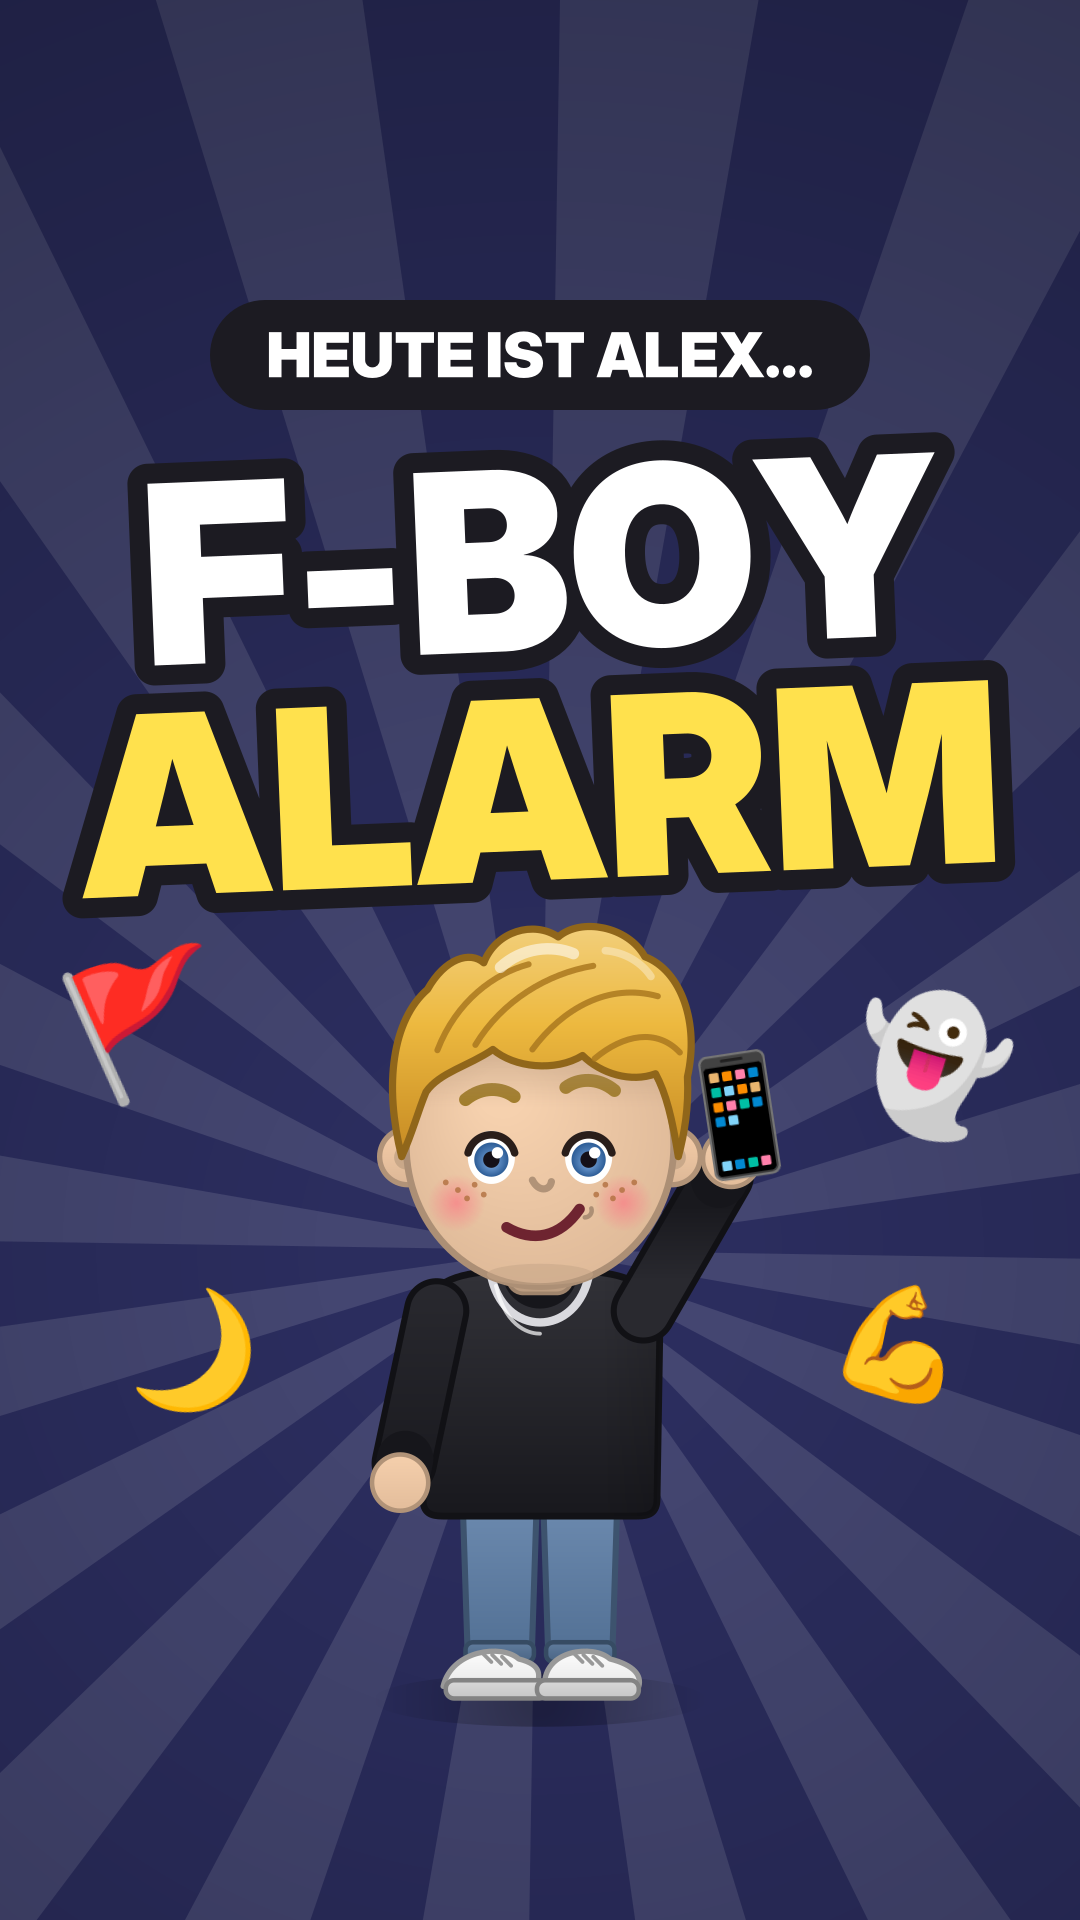
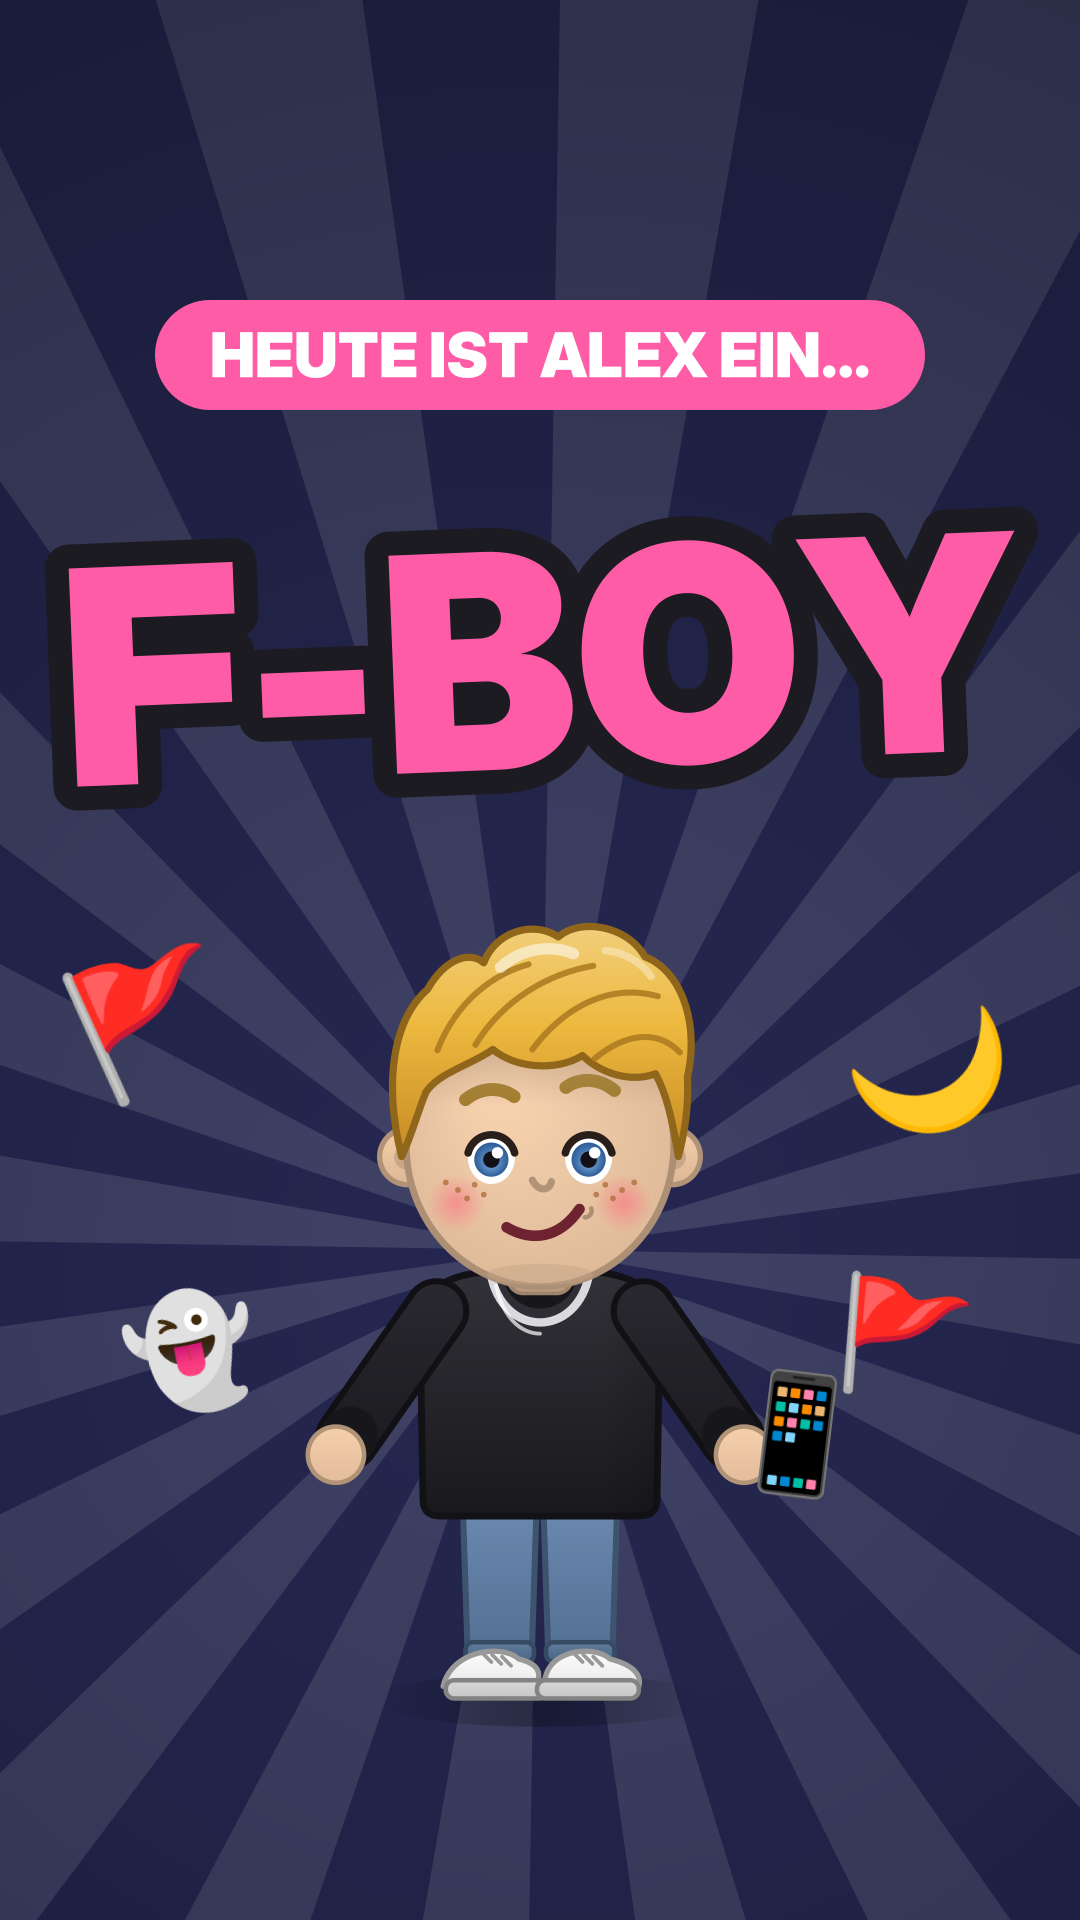
Thumbnail-Tool: Kopfzeile, Einzelwort und Themenfarben pro Folge; F-Boy-Cover in Nacht/Neon-Pink
Claude-Session: https://claude.ai/code/session_01McNdgbYmUv6wbiJiuvHZgk

diff --git a/tools/thumbnail.py b/tools/thumbnail.py
@@ -37,11 +37,16 @@ def outlined(s, y, size, fill_col, rot=-0.04):
     c.restore()
 
 # Kopfzeile (unterhalb der TikTok-Leiste, im 3:4-Ausschnitt)
-rrect(c, W / 2 - 330, 300, 660, 110, 55); fill(c, INK)
-text(c, "HEUTE IST ALEX…", W / 2, 355, 62, "#FFFFFF", FONT_HEAD)
-# Rolle riesig
-outlined(l1, 560, 250, "#FFFFFF")
-outlined(l2, 790, 250, "#FFE14D")
+head = TH.get("head", "HEUTE IST ALEX…")
+hw = text_width(c, head, 62, FONT_HEAD) + 110
+rrect(c, W / 2 - hw / 2, 300, hw, 110, 55); fill(c, TH.get("pill", INK))
+text(c, head, W / 2, 355, 62, TH.get("pill_text", "#FFFFFF"), FONT_HEAD)
+# Rolle riesig: zwei Zeilen (l1 weiß, l2 Akzent) oder nur ein Wort (l1 leer)
+if l1:
+    outlined(l1, 560, 250, TH.get("color1", "#FFFFFF"))
+    outlined(l2, 790, 250, TH.get("accent", "#FFE14D"))
+else:
+    outlined(l2, 660, 300, TH.get("accent", "#FFE14D"))
 # Alex
 for e, (x, y, s, r) in zip(TH["emojis"], ((150, 1020, 130, -0.3), (930, 1060, 130, 0.3), (190, 1350, 110, -0.2), (900, 1340, 110, 0.2))):
     emoji(c, e, x, y, s, r)

diff --git a/episodes/05_fboy/script.py b/episodes/05_fboy/script.py
@@ -37,8 +37,10 @@ SHUFFLE = [
     ("EIN ROCKSTAR.", "🎸", "#151515", "#5C5C66"),
 ]
 
-THUMB = dict(l1="F-BOY", l2="ALARM", bg="#2B2D5E", expr="smug", pose="phone", prop="📱",
-             emojis=("🚩", "👻", "🌙", "💪"))
+# Cover: gleiche Anordnung wie Pick-me-Boy, Farben passend zum Thema (Nacht + Neon-Pink)
+THUMB = dict(head="HEUTE IST ALEX EIN…", l1="", l2="F-BOY", bg="#24264F", accent="#FF5CA8",
+             pill="#FF5CA8", pill_text="#FFFFFF", expr="smug", pose="hips", prop="📱",
+             emojis=("🚩", "🌙", "👻", "🚩"))
 
 SCENES = [
     dict(id="what", bg="#2B2D5E", clock=None, title="WAS IST EIN F-BOY?", dark=True, lines=[
